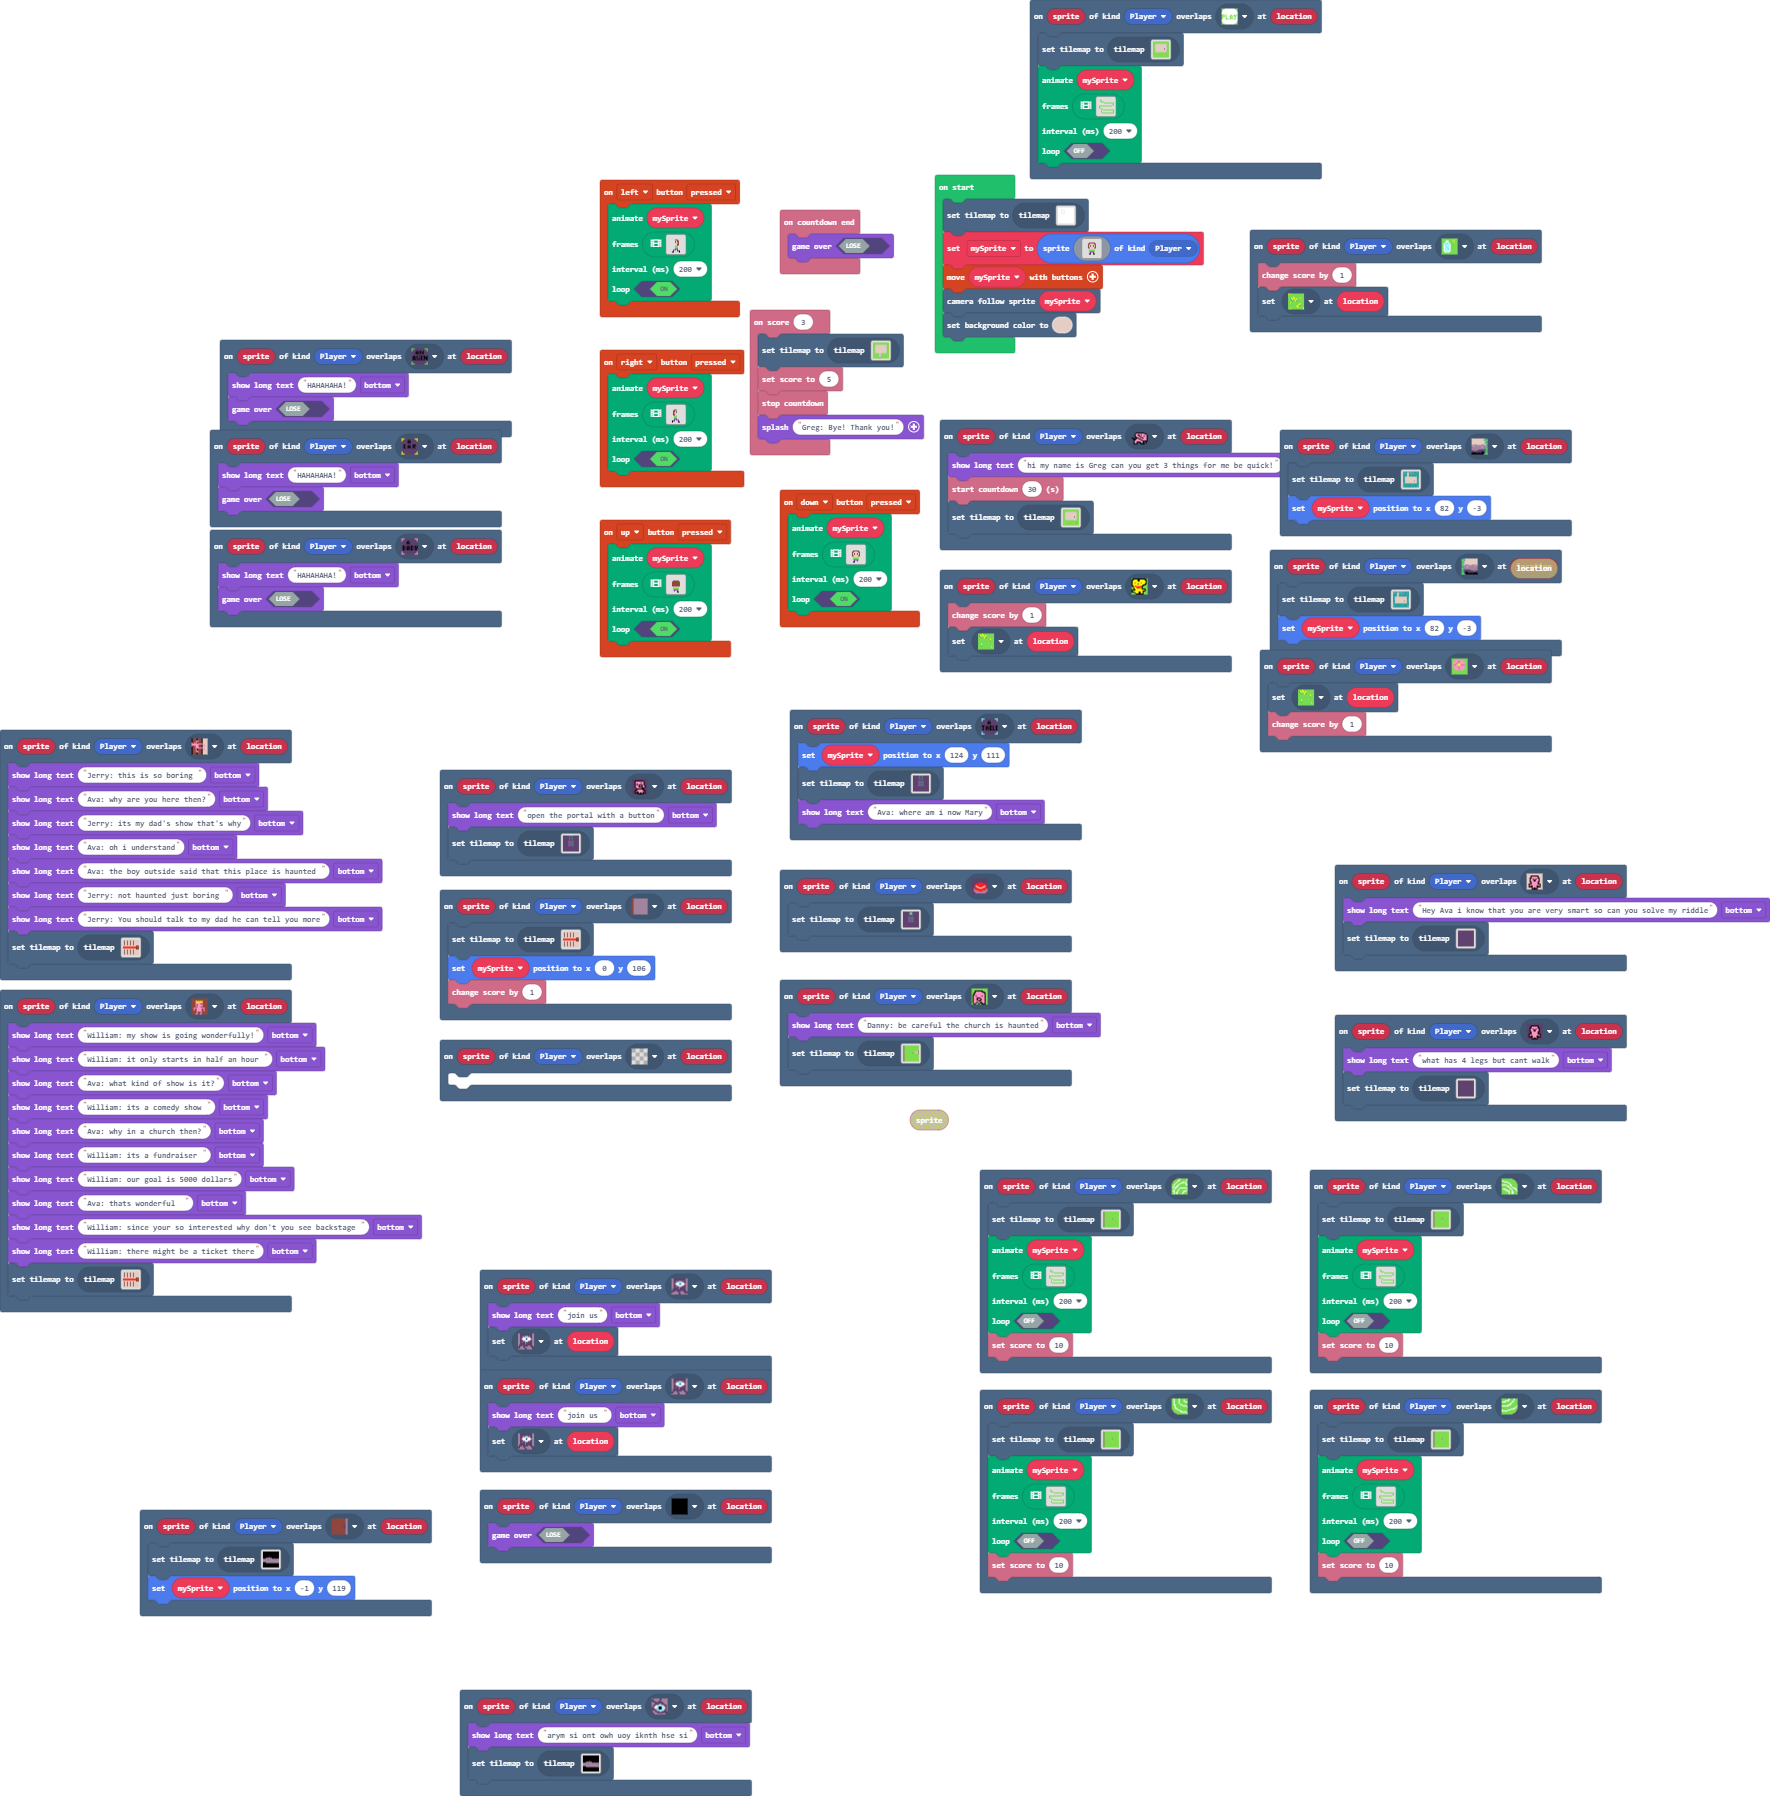
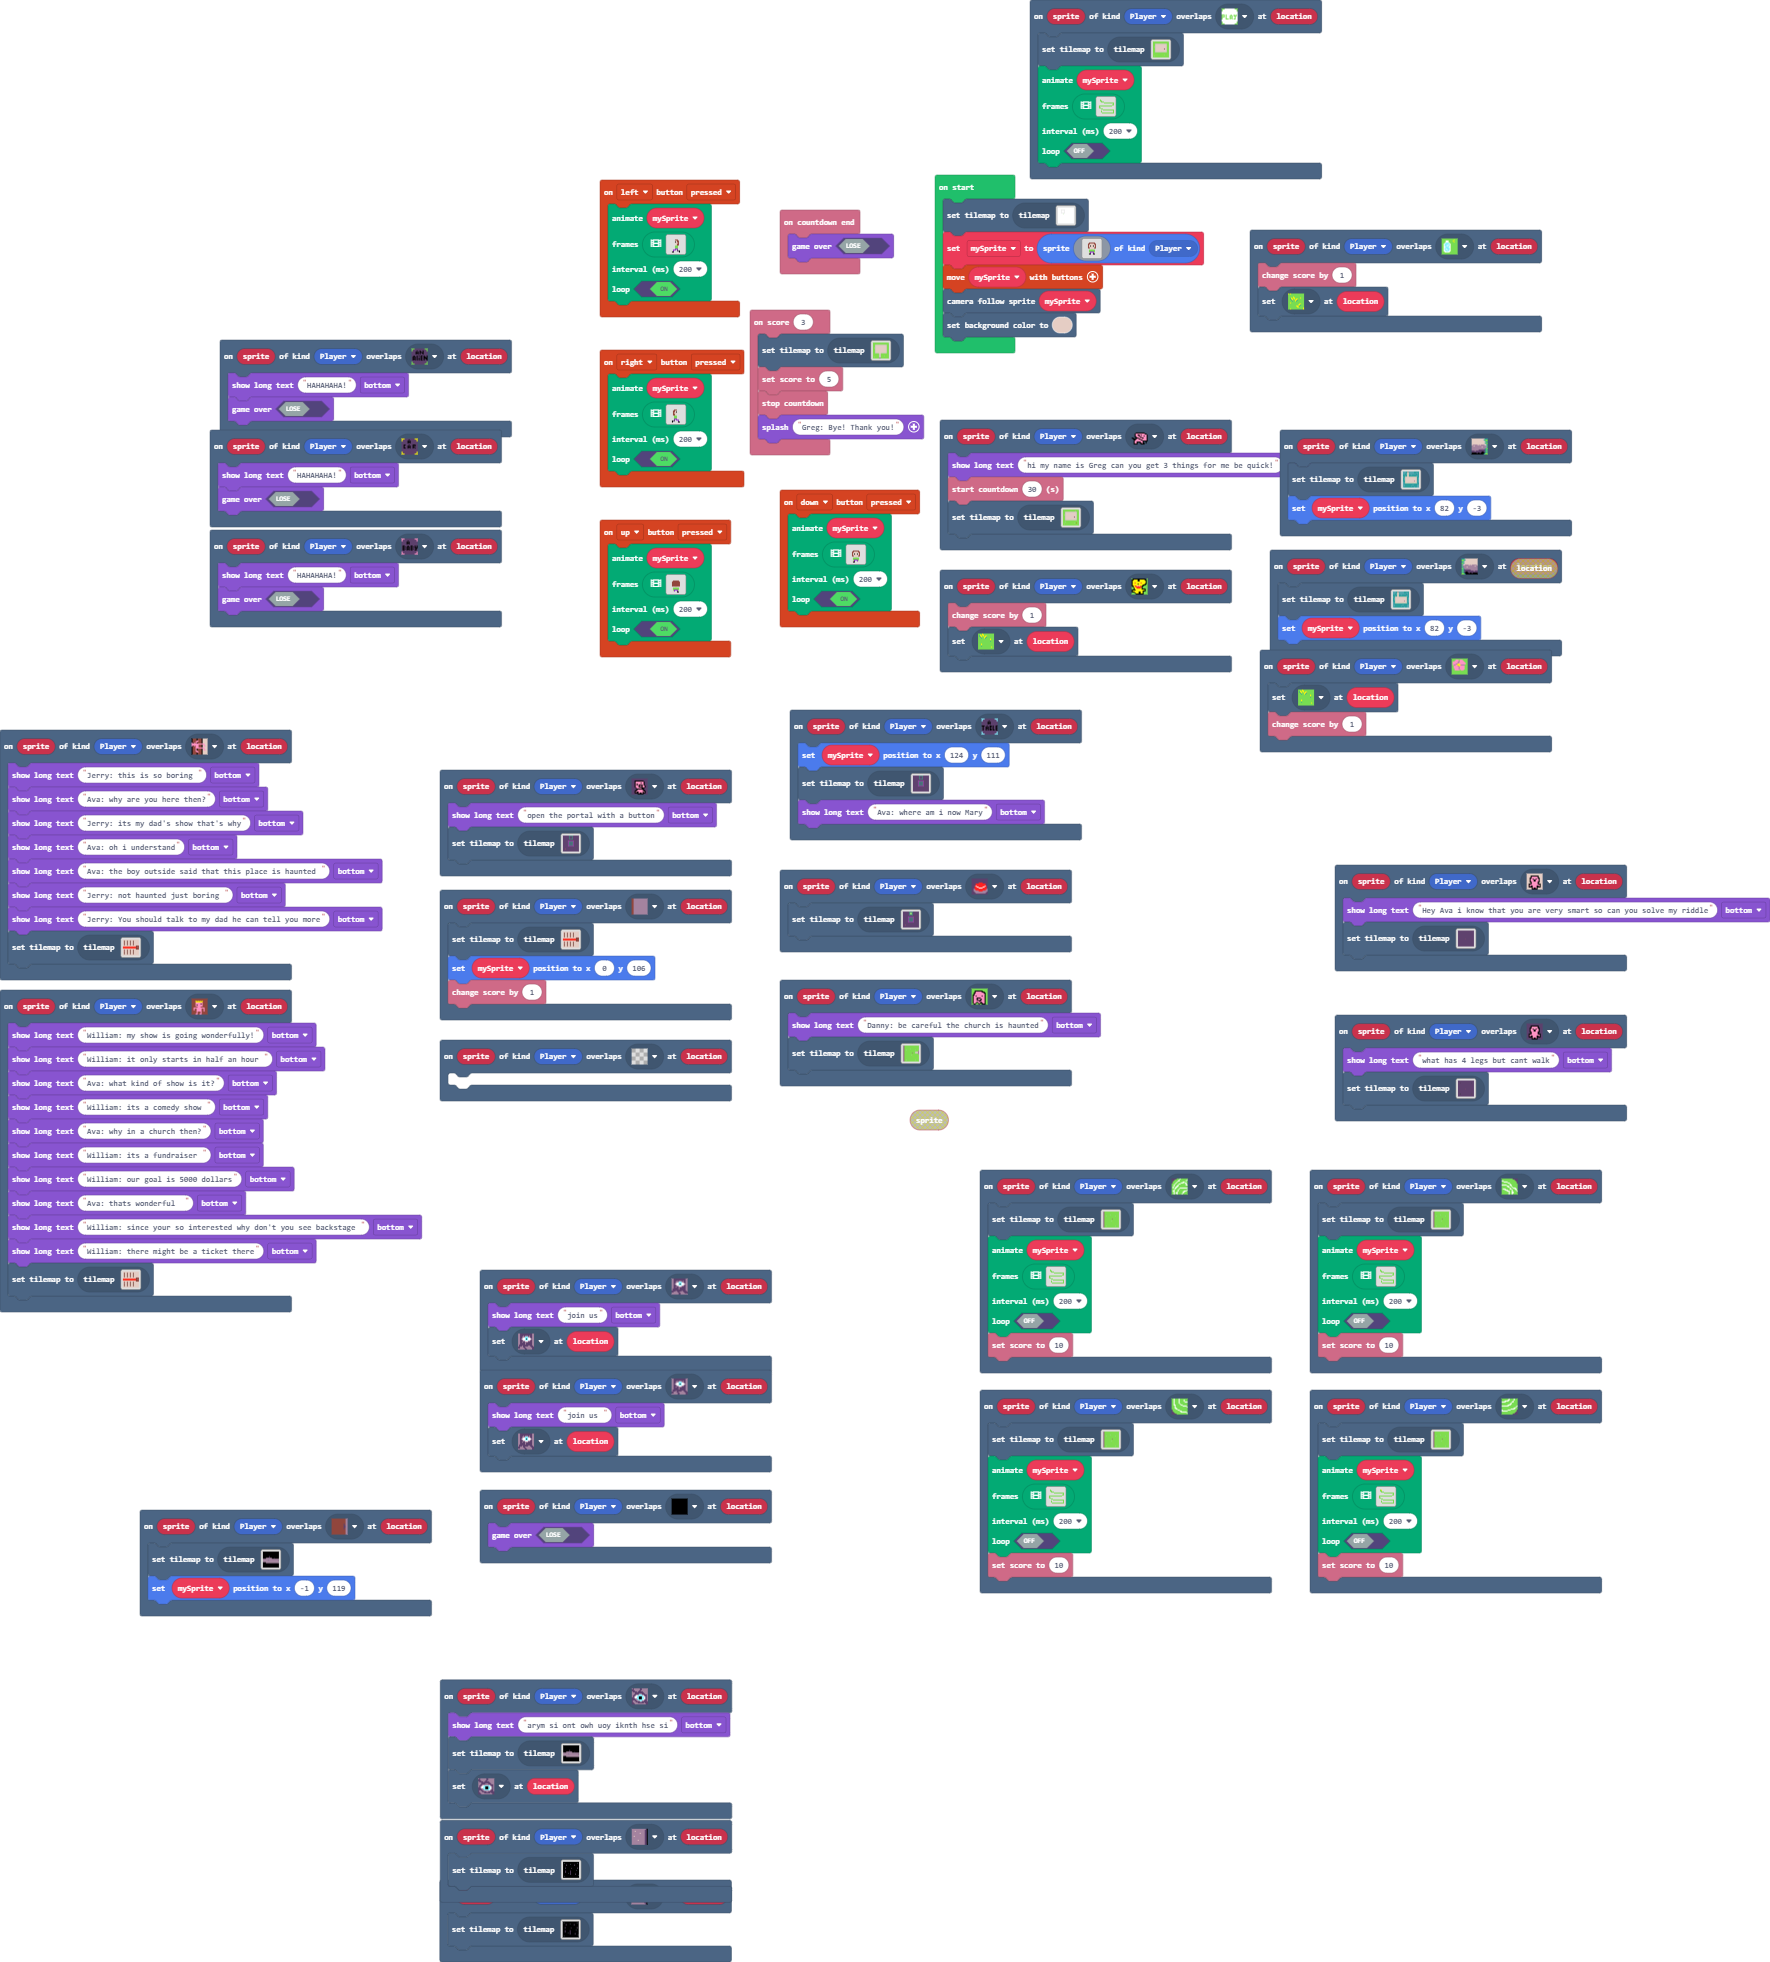
ponki

diff --git a/tilemap.g.ts b/tilemap.g.ts
@@ -176,6 +176,18 @@ namespace myTiles {
     export const tile87 = image.ofBuffer(hex``);
     //% fixedInstance jres blockIdentity=images._tile
     export const tile86 = image.ofBuffer(hex``);
+    //% fixedInstance jres blockIdentity=images._tile
+    export const tile88 = image.ofBuffer(hex``);
+    //% fixedInstance jres blockIdentity=images._tile
+    export const tile89 = image.ofBuffer(hex``);
+    //% fixedInstance jres blockIdentity=images._tile
+    export const tile91 = image.ofBuffer(hex``);
+    //% fixedInstance jres blockIdentity=images._tile
+    export const tile90 = image.ofBuffer(hex``);
+    //% fixedInstance jres blockIdentity=images._tile
+    export const tile92 = image.ofBuffer(hex``);
+    //% fixedInstance jres blockIdentity=images._tile
+    export const tile93 = image.ofBuffer(hex``);
 
     helpers._registerFactory("tilemap", function(name: string) {
         switch(helpers.stringTrim(name)) {
@@ -844,25 +856,6 @@ namespace myTiles {
 . . . . . . . . . . . . . . . . 
 . . . . . . . . . . . . . . . . 
 `, [myTiles.transparency16,myTiles.tile38,myTiles.tile39,myTiles.tile40,myTiles.tile41,myTiles.tile42,myTiles.tile43,myTiles.tile44,myTiles.tile45,myTiles.tile46,myTiles.tile48,myTiles.tile49,myTiles.tile50,myTiles.tile52,myTiles.tile37], TileScale.Sixteen);
-            case "level43":
[1 lines of base64/hex data omitted]
-. . . . . . . . . . . . . . . . 
-. . . . . . . . . . . . . . . . 
-. . . . . . . . . . . . . . . . 
-. . . . . . . . . . . . . . . . 
-. . . . . . . . . . . . . . . . 
-. . . . . . . . . . . . . . . . 
-. . . . . . . . . . . . . . . . 
-. . . . . . . . . . . . . . . . 
-. . . . . . . . . . . . . . . . 
-. . . . . . . . . . . . . . . . 
-. . . . . . . . . . . . . . . . 
-. . . . . . . . . . . . . . . . 
-. . . . . . . . . . . . . . . . 
-. . . . . . . . . . . . . . . . 
-. . . . . . . . . . . . . . . . 
-. . . . . . . . . . . . . . . . 
-`, [myTiles.transparency16,myTiles.tile55,myTiles.tile56,myTiles.tile57,myTiles.tile58,myTiles.tile59,myTiles.tile60,myTiles.tile61,myTiles.tile62,myTiles.tile63,myTiles.tile64,myTiles.tile65,myTiles.tile67,myTiles.tile68,myTiles.tile69,myTiles.tile70,myTiles.tile71,myTiles.tile72,myTiles.tile73], TileScale.Sixteen);
             case "level7":
[1 lines of base64/hex data omitted]
 . . . . . . . . . 2 . . . . . . 
@@ -958,6 +951,63 @@ namespace myTiles {
 . . . . . . . . . . . . . . . . 
 . . . . . . . . . . . . . . . . 
 `, [myTiles.transparency16,myTiles.tile55,myTiles.tile56,myTiles.tile57,myTiles.tile58,myTiles.tile59,myTiles.tile60,myTiles.tile61,myTiles.tile62,myTiles.tile63,myTiles.tile64,myTiles.tile65,myTiles.tile67,myTiles.tile68,myTiles.tile69,myTiles.tile70,myTiles.tile71,myTiles.tile72,myTiles.tile73,myTiles.tile86,myTiles.tile87], TileScale.Sixteen);
+            case "level51":
+            case "level51":return tiles.createTilemap(hex`1000100000000000000000000000000000000000000000000000000000000000000000000000000000000000000000000000000000000000000000000000000000000000000000000000000000000000000000000000000000000000000000000000000000000000000000000000000000000000000000000000000000000000000000000000000000000000000000000000000000000000000000000000000000000000000000000000000000000000000000000000000000000000000000000000000000000000000000000000000000000000000000000000000000000000000000000000000000000000000000000000000000000000000000000000000000000000`, img`
+. . . . . . . . . . . . . . . . 
+. . . . . . . . . . . . . . . . 
+. . . . . . . . . . . . . . . . 
+. . . . . . . . . . . . . . . . 
+. . . . . . . . . . . . . . . . 
+. . . . . . . . . . . . . . . . 
+. . . . . . . . . . . . . . . . 
+. . . . . . . . . . . . . . . . 
+. . . . . . . . . . . . . . . . 
+. . . . . . . . . . . . . . . . 
+. . . . . . . . . . . . . . . . 
+. . . . . . . . . . . . . . . . 
+. . . . . . . . . . . . . . . . 
+. . . . . . . . . . . . . . . . 
+. . . . . . . . . . . . . . . . 
+. . . . . . . . . . . . . . . . 
+`, [myTiles.transparency16], TileScale.Sixteen);
+            case "level43":
[1 lines of base64/hex data omitted]
+. . . . . . . . . . . . . . . . 
+. . . . . . . . . . . . . . . . 
+. . . . . . . . . . . . . . . . 
+. . . . . . . . . . . . . . . . 
+. . . . . . . . . . . . . . . . 
+. . . . . . . . . . . . . . . . 
+. . . . . . . . . . . . . . . . 
+. . . . . . . . . . . . . . . . 
+. . . . . . . . . . . . . . . . 
+. . . . . . . . . . . . . . . . 
+. . . . . . . . . . . . . . . . 
+. . . . . . . . . . . . . . . . 
+. . . . . . . . . . . . . . . . 
+. . . . . . . . . . . . . . . . 
+. . . . . . . . . . . . . . . . 
+. . . . . . . . . . . . . . . . 
+`, [myTiles.transparency16,myTiles.tile55,myTiles.tile56,myTiles.tile57,myTiles.tile58,myTiles.tile59,myTiles.tile60,myTiles.tile61,myTiles.tile62,myTiles.tile63,myTiles.tile64,myTiles.tile65,myTiles.tile67,myTiles.tile68,myTiles.tile69,myTiles.tile70,myTiles.tile71,myTiles.tile72,myTiles.tile73,myTiles.tile87,myTiles.tile86], TileScale.Sixteen);
+            case "level50":
+            case "level50":return tiles.createTilemap(hex`1000100005050505050505050505050505050505050105050505050505050505050501050505050405050501050505040505050505050503050505050505050305050505050505050505050505050505050505050505040505050505050505050505040505050305050505050605050505050305050505050505050505050505050505050505040505050504050505050501050505050205050505020505050505050505050503050505050205050505050505050505050505010502050505050405050505050505050505030505050503050505050505050505050505050505050505010501050505050505050505050505050505050505050505050505050505050505`, img`
+. . . . . . . . . . . . . . . . 
+. . . . . . . . . . . . . . . . 
+. . . . . . . . . . . . . . . . 
+. . . 2 . . . . . . . 2 . . . . 
+. . . . . . . . . . . . . . . . 
+. . . . . . . . . . . . . . . . 
+. . 2 . . . . . . . . . . . 2 . 
+. . . . . . . . . . . . . . . . 
+. . . . . . . . . . . . . . . . 
+. . 2 . . . . 2 . . . . . . . . 
+. . 2 . . . . 2 . . . . . . . . 
+. . . . . . . 2 . . . . . . . . 
+. . . . . . . 2 . . . . 2 . . . 
+. . . . . . . . . . . . . . . . 
+. . . . . . . . . . . . . . . . 
+. . . . . . . . . . . . . . . . 
+`, [myTiles.transparency16,myTiles.tile89,myTiles.tile73,myTiles.tile90,myTiles.tile91,myTiles.tile92,myTiles.tile93], TileScale.Sixteen);
         }
         return null;
     })
@@ -1139,6 +1189,18 @@ namespace myTiles {
             case "tile87":return tile87;
             case "myTile84":
             case "tile86":return tile86;
+            case "coop":
+            case "tile88":return tile88;
+            case "myTile86":
+            case "tile89":return tile89;
+            case "myTile88":
+            case "tile91":return tile91;
+            case "myTile87":
+            case "tile90":return tile90;
+            case "myTile89":
+            case "tile92":return tile92;
+            case "myTile90":
+            case "tile93":return tile93;
         }
         return null;
     })

diff --git a/main.ts b/main.ts
@@ -361,6 +361,9 @@ scene.onOverlapTile(SpriteKind.Player, assets.tile`myTile29`, function (sprite, 
     )
     info.setScore(10)
 })
+scene.onOverlapTile(SpriteKind.Player, assets.tile`myTile85`, function (sprite, location) {
+    tiles.setCurrentTilemap(tilemap`level50`)
+})
 scene.onOverlapTile(SpriteKind.Player, assets.tile`myTile21`, function (sprite, location) {
     game.showLongText("open the portal with a button", DialogLayout.Bottom)
     tiles.setCurrentTilemap(tilemap`level23`)
@@ -372,6 +375,7 @@ scene.onOverlapTile(SpriteKind.Player, assets.tile`myTile16`, function (sprite, 
 scene.onOverlapTile(SpriteKind.Player, assets.tile`myTile54`, function (sprite, location) {
     game.showLongText("arym si ont owh uoy iknth hse si", DialogLayout.Bottom)
     tiles.setCurrentTilemap(tilemap`level48`)
+    tiles.setTileAt(location, assets.tile`coop`)
 })
 scene.onOverlapTile(SpriteKind.Player, assets.tile`myTile81`, function (sprite, location) {
     tiles.setCurrentTilemap(tilemap`level43`)
@@ -546,6 +550,9 @@ controller.right.onEvent(ControllerButtonEvent.Pressed, function () {
     200,
     true
     )
+})
+scene.onOverlapTile(SpriteKind.Player, assets.tile`myTile84`, function (sprite, location) {
+    tiles.setCurrentTilemap(tilemap`level50`)
 })
 scene.onOverlapTile(SpriteKind.Player, assets.tile`myTile8`, function (sprite, location) {
     tiles.setCurrentTilemap(tilemap`level2`)
